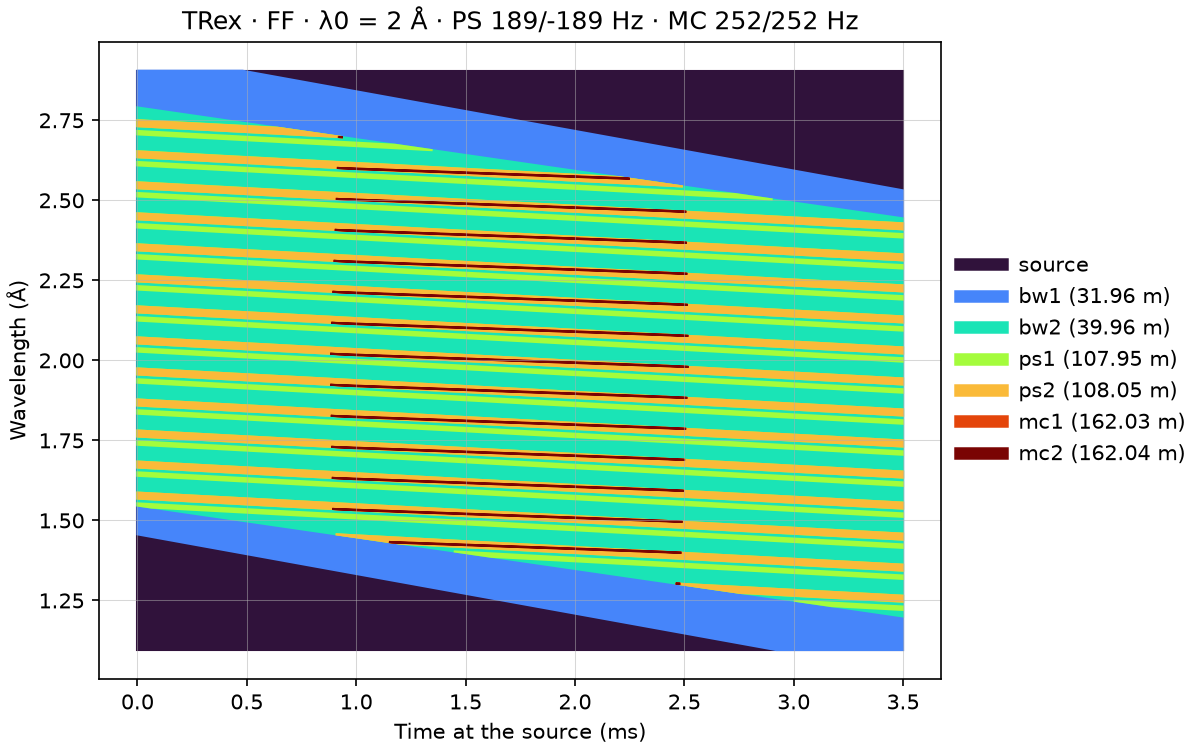
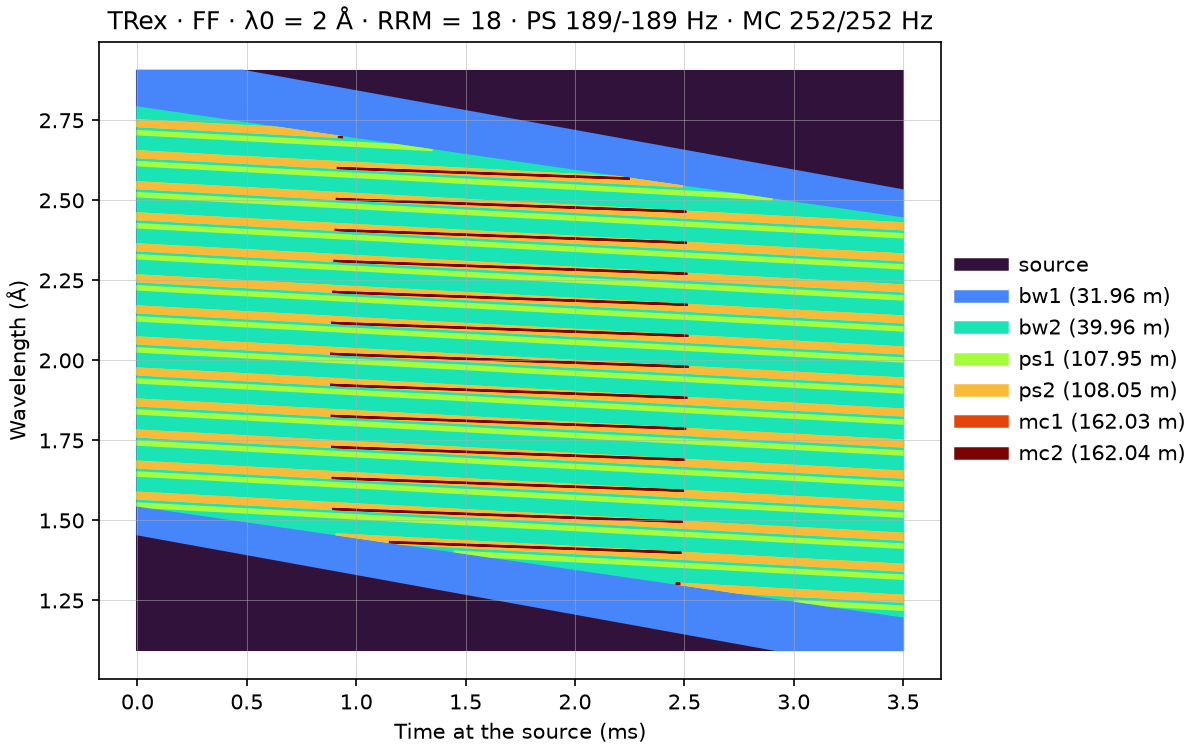
Describe a run in one line with running_conditions(), the acceptance diagram's title
Instrument.running_conditions() describes the settings of an instrument
in one line, by default its name, and chopper_frequencies(prefix) gives
the signed frequency of its disk choppers by name. TRex adds its mode,
lambda0, rrm and the frequencies of the pulse-shaping and monochromatic
choppers: "TRex · FF · λ0 = 2 Å · RRM = 18 · PS 189/-189 Hz · MC
252/252 Hz".

The acceptance diagram takes it as its title, in place of diagram_title
and its chopper_groups.

Changed region(s): [[0.0925, 0.0, 0.7708, 0.0613]]

diff --git a/src/mcdgs/tof/acceptance.py b/src/mcdgs/tof/acceptance.py
@@ -14,7 +14,6 @@ pulse.
 """
 
 import math
-from collections.abc import Sequence
 
 import matplotlib.pyplot as plt
 import numpy as np
@@ -147,45 +146,6 @@ def _openings(disk: DiskChopper, t_start: float, t_end: float) -> Chopper:
     )
 
 
-def diagram_title(instrument: Instrument, chopper_groups: Sequence[str] = ()) -> str:
-    """Return the title of the acceptance diagram of an instrument.
-
-    The instrument's name; its ``mode`` and ``lambda0``, if its control parameters have them;
-    then for each group, the signed frequencies of the disk choppers whose names start with it,
-    in beam order, as ``"PS 189/-189 Hz"``: the sign is the sense of rotation, as in McStas's
-    ``nu``. A group without choppers is left out.
-
-    Parameters
-    ----------
-    instrument:
-        The instrument, at its current parameters.
-    chopper_groups:
-        Name prefixes of the choppers whose frequencies to show, such as ``("ps", "mc")``.
-
-    Returns
-    -------
-    :
-        The title, its parts joined by ``" · "``.
-    """
-    parts = [instrument.name]
-    if (mode := getattr(instrument.params, "mode", None)) is not None:
-        parts.append(str(mode))
-    if (lambda0 := getattr(instrument.params, "lambda0", None)) is not None:
-        parts.append(f"λ0 = {lambda0:g} Å")
-
-    params = _numeric_params(instrument)
-    _, after_source = beamline(instrument)
-    for group in chopper_groups:
-        frequencies = [
-            f"{float(evaluate(component.nu, params)):g}"
-            for name, component, _ in after_source
-            if isinstance(component, NXdisk_chopper) and name.startswith(group)
-        ]
-        if frequencies:
-            parts.append(f"{group.upper()} {'/'.join(frequencies)} Hz")
-    return " · ".join(parts)
-
-
 def acceptance_diagram(
     instrument: Instrument,
     *,
@@ -194,14 +154,13 @@ def acceptance_diagram(
     time_min: float | None = None,
     time_max: float | None = None,
     n_pulses: int | None = None,
-    chopper_groups: Sequence[str] = (),
 ) -> Figure:
     """Draw the chopper acceptance diagram of an instrument.
 
     The pulse at the source and what each chopper accepts of it, moved back to the source,
     time on x and wavelength on y. Each chopper is drawn over the ones before it, in turbo from the
     source to the last chopper, so the last color is what reaches the end of the cascade. The
-    title is :func:`diagram_title`.
+    title is the instrument's :meth:`.Instrument.running_conditions`.
 
     Parameters
     ----------
@@ -215,9 +174,6 @@ def acceptance_diagram(
     n_pulses:
         Number of pulses, one source period apart. ``None`` takes the source's ``n_pulses``, at
         least 1.
-    chopper_groups:
-        Name prefixes of the choppers whose frequencies the title shows, such as
-        ``("ps", "mc")``.
 
     Returns
     -------
@@ -252,7 +208,7 @@ def acceptance_diagram(
     ax.autoscale_view()
     ax.set_xlabel("Time at the source (ms)")
     ax.set_ylabel("Wavelength (Å)")
-    ax.set_title(diagram_title(instrument, chopper_groups))
+    ax.set_title(instrument.running_conditions())
     ax.grid(True, linewidth=0.5, alpha=0.5)
     ax.legend(loc="center left", bbox_to_anchor=(1, 0.5), frameon=False)
     return fig

diff --git a/src/mcdgs/core/base.py b/src/mcdgs/core/base.py
@@ -12,16 +12,17 @@ An instrument is two things:
 
 The io/ and mcstas/ layers rely only on what this base class provides: ``name``, ``params``,
 ``update_params``, ``components``, ``instr_params``, ``positions``, equality and the summary
-(``repr``).
+(``repr``). ``running_conditions`` and ``chopper_frequencies`` describe the settings of a run in
+one line, such as the title of a figure.
 """
 
 from dataclasses import asdict, fields, replace
 from typing import Any
 
-from .components import Component
+from .components import Component, NXdisk_chopper
 from .geometry import place_absolute
 from .params import InstrParam
-from .utils import format_value
+from .utils import evaluate, format_value
 
 INSTRUMENTS: dict[str, type["Instrument"]] = {}  # every subclass of Instrument by class name
 
@@ -131,16 +132,54 @@ class Instrument:
             ``[x, y, z]`` in m by component name, at the current angles. Values are rounded to
             1 nm so that rotation noise reads ``0.0``, never ``-0.0``.
         """
-        instr_param_dict = {  # only numbers can place a component; a string parameter cannot
-            p.name: p.value for p in self.instr_params if isinstance(p.value, int | float)
-        }
         at_rotated_dict = place_absolute(
-            self.components, instr_param_dict
+            self.components, self._numeric_instr_params()
         )  # name -> (position, rotation)
         return {
             name: (position.round(9) + 0.0).tolist()
             for name, (position, _rotation) in at_rotated_dict.items()
         }
+
+    def chopper_frequencies(self, prefix: str = "") -> dict[str, float]:
+        """Return the signed frequency of the disk choppers whose names start with ``prefix``.
+
+        Parameters
+        ----------
+        prefix:
+            Start of the chopper names, such as ``"ps"``. ``""`` takes every disk chopper.
+
+        Returns
+        -------
+        :
+            ``nu`` in Hz by chopper name, in beam order, at the current parameters: the sign is
+            the sense of rotation, as in McStas.
+        """
+        params = self._numeric_instr_params()
+        return {
+            name: float(evaluate(component.nu, params))
+            for name, component in self.components.items()
+            if isinstance(component, NXdisk_chopper) and name.startswith(prefix)
+        }
+
+    def running_conditions(self) -> str:
+        """Describe the settings of the instrument in one line, such as the title of a figure.
+
+        The instrument's name. A subclass adds what sets its run, such as its control
+        parameters and the frequencies of its choppers (:meth:`chopper_frequencies`).
+
+        Returns
+        -------
+        :
+            The description, its parts joined by ``" · "``.
+        """
+        return self.name
+
+    def _numeric_instr_params(self) -> dict[str, float]:
+        """Return the McStas instrument parameters that are numbers, by name.
+
+        Only numbers can stand in a component's values; a string parameter cannot.
+        """
+        return {p.name: p.value for p in self.instr_params if isinstance(p.value, int | float)}
 
     def __repr__(self) -> str:
         """Summarize the instrument as tables.

diff --git a/src/mcdgs/instruments/trex/model.py b/src/mcdgs/instruments/trex/model.py
@@ -170,8 +170,8 @@ class TRex(Instrument):
     ) -> Figure:
         """Draw the chopper acceptance diagram of T-Rex, at its current parameters.
 
-        See :func:`mcdgs.tof.acceptance.acceptance_diagram`. The title gives the mode,
-        ``lambda0`` and the frequencies of the pulse-shaping and monochromatic choppers.
+        See :func:`mcdgs.tof.acceptance.acceptance_diagram`. The title is
+        :meth:`running_conditions`.
 
         Parameters
         ----------
@@ -196,8 +196,29 @@ class TRex(Instrument):
             time_min=time_min,
             time_max=time_max,
             n_pulses=n_pulses,
-            chopper_groups=("ps", "mc"),
         )
+
+    def running_conditions(self) -> str:
+        """Describe the settings of T-Rex in one line, such as the title of a figure.
+
+        The name, the mode, ``lambda0`` and ``rrm``, then the signed frequencies of the
+        pulse-shaping (PS) and monochromatic (MC) choppers, in beam order.
+
+        Returns
+        -------
+        :
+            Such as ``"TRex · FF · λ0 = 2 Å · RRM = 18 · PS 189/-189 Hz · MC 252/252 Hz"``.
+        """
+        parts = [
+            self.name,
+            self.params.mode,
+            f"λ0 = {self.params.lambda0:g} Å",
+            f"RRM = {self.params.rrm}",
+        ]
+        for group in ("ps", "mc"):
+            frequencies = "/".join(f"{nu:g}" for nu in self.chopper_frequencies(group).values())
+            parts.append(f"{group.upper()} {frequencies} Hz")
+        return " · ".join(parts)
 
     def add_components(self, components: dict[str, Component]) -> None:
         """Set components as attributes under their names, keeping their order.

diff --git a/tests/tof/test_acceptance.py b/tests/tof/test_acceptance.py
@@ -6,7 +6,7 @@ matplotlib.use("Agg")
 from matplotlib.figure import Figure
 
 from mcdgs.instruments.trex.model import TRex
-from mcdgs.tof.acceptance import chopper_cascade, diagram_title
+from mcdgs.tof.acceptance import chopper_cascade
 
 
 @pytest.mark.parametrize("mode", ["FF", "RR"])
@@ -51,18 +51,10 @@ def test_trex_draws_one_legend_entry_per_frame():
     assert [label.split()[0] for label in labels[1:]] == ["bw1", "bw2", "ps1", "ps2", "mc1", "mc2"]
 
 
-def test_title_gives_mode_lambda0_and_the_chopper_frequencies():
+def test_the_title_is_the_running_conditions():
     trex = TRex()
-    trex.update_params(mode="RR", lambda0=4.0)
-    nu = {p.name: p.value for p in trex.instr_params}
-    ps = f"{nu['nu_ps1']:g}/{nu['nu_ps2']:g}"
-    mc = f"{nu['nu_mc1']:g}/{nu['nu_mc2']:g}"
-    title = trex.acceptance_diagram().axes[0].get_title()
-    assert title == f"TRex · RR · λ0 = 4 Å · PS {ps} Hz · MC {mc} Hz"
-
-
-def test_title_leaves_out_chopper_groups_without_choppers():
-    assert diagram_title(TRex(), ("ps", "fan")).count("·") == 3  # name, mode, lambda0, PS
+    trex.update_params(mode="RR", rrm=12)
+    assert trex.acceptance_diagram().axes[0].get_title() == trex.running_conditions()
 
 
 def test_cascade_takes_the_times_and_pulses_given():

diff --git a/tests/core/test_base.py b/tests/core/test_base.py
@@ -3,7 +3,7 @@ from dataclasses import dataclass
 import pytest
 
 from mcdgs.core.base import INSTRUMENTS, Instrument
-from mcdgs.core.components import Arm, Progress_bar
+from mcdgs.core.components import Arm, NXdisk_chopper, Progress_bar
 from mcdgs.core.params import InstrParam, param
 
 
@@ -108,3 +108,18 @@ def test_the_summary_shows_params_instr_params_and_components():
     assert "incident energy" in text
     assert "Instrument parameters (McStas):" in text
     assert "[0, omega, 0]" in text  # the sample's rotation, as given
+
+
+def test_chopper_frequencies_are_signed_by_name_in_beam_order():
+    toy = Toy()
+    toy.slow = NXdisk_chopper(slit_edges=[0, 10], nu=14, at=[0, 0, 3])
+    toy.fast_1 = NXdisk_chopper(slit_edges=[0, 10], nu="omega", at=[0, 0, 4])
+    toy.fast_2 = NXdisk_chopper(slit_edges=[0, 10], nu="-2*omega", at=[0, 0, 5])
+    toy.update_params(omega=70)
+    assert toy.chopper_frequencies() == {"slow": 14.0, "fast_1": 70.0, "fast_2": -140.0}
+    assert toy.chopper_frequencies("fast") == {"fast_1": 70.0, "fast_2": -140.0}
+    assert toy.chopper_frequencies("none") == {}
+
+
+def test_running_conditions_default_to_the_name():
+    assert Toy().running_conditions() == "toy"

diff --git a/tests/instruments/trex/test_trex.py b/tests/instruments/trex/test_trex.py
@@ -574,3 +574,14 @@ def test_two_instruments_share_no_component():
     assert first.bw1 is not second.bw1
     first.guide_1.w1 = 0.1
     assert second.guide_1.w1 == pytest.approx(0.089955)
+
+
+def test_running_conditions_give_the_settings_and_the_chopper_frequencies():
+    trex = TRex()
+    assert trex.running_conditions() == (
+        "TRex · FF · λ0 = 2 Å · RRM = 18 · PS 189/-189 Hz · MC 252/252 Hz"
+    )
+    trex.update_params(mode="RR", lambda0=4.0, rrm=12)
+    assert trex.running_conditions() == (
+        "TRex · RR · λ0 = 4 Å · RRM = 12 · PS 126/-126 Hz · MC 168/168 Hz"
+    )

diff --git a/docs/instruments/trex/choppers.md b/docs/instruments/trex/choppers.md
@@ -149,8 +149,8 @@ Each chopper is drawn over the ones before it, in turbo from the source to the l
   sub-pulses, about 0.1 Å apart, are what reaches the sample. `mc2` lies over `mc1`, which
   accepts almost the same.
 
-The title gives the mode, `lambda0`, and the signed frequencies of the pulse-shaping (PS) and
-monochromatic (MC) choppers.
+The title is `trex.running_conditions()`: the mode, `lambda0`, `rrm` (RRM) and the signed
+frequencies of the pulse-shaping (PS) and monochromatic (MC) choppers.
 The band, the times and the number of pulses can be changed, all in Å and s:
 
 ```python
